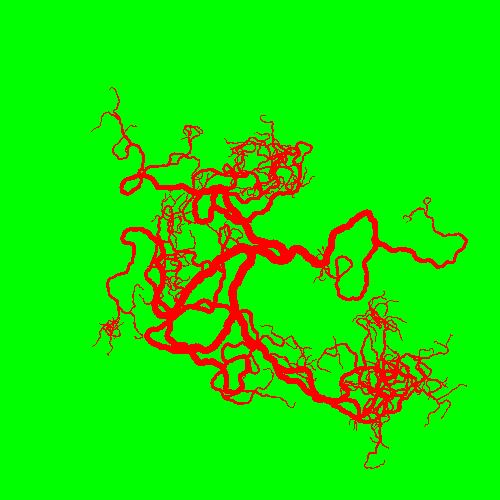
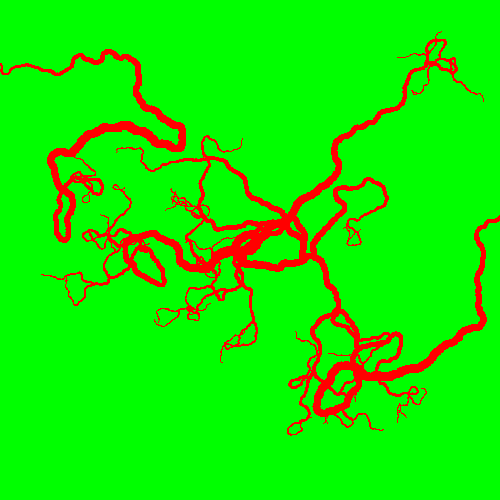
scaling variable implementation fixed

diff --git a/src/world/World.java b/src/world/World.java
@@ -42,15 +42,16 @@ public class World {
 				world[i][j] = STATE_WALL;
 			}
 		}
+		world = startDendrite(world, 0.25*w, 0.25*h);
 		world = startDendrite(world, 0.5*w, 0.5*h);
+		world = startDendrite(world, 0.75*w, 0.75*h);
 		return world;
 	}
 
 	private static int[][] startDendrite(int[][] world, double x, double y) {
 		double r0 = 5, t0 = (Main.r.nextDouble()*2.0-1.0)*6.28;
-		world = dendrite(world, x, y, r0, t0, 5);
-		world = dendrite(world, x, y, r0, t0+2.09, 5);
-		world = dendrite(world, x, y, r0, t0+4.18, 5);
+		world = dendrite(world, x, y, r0, t0, 3);
+		world = dendrite(world, x, y, r0, t0+3.14, 5);
 //		world = dendrite(world, 250, 500, 5, -Math.PI*0.5, 5);
 		return world;
 	}
@@ -64,12 +65,12 @@ public class World {
 			x += Math.cos(t)*r*0.5;
 			y += Math.sin(t)*r*0.5;
 			if(recurs >= 0)  {
-				if(Main.r.nextDouble() < 0.005) {
+				if(Main.r.nextDouble() < 0.0025) {
 					double diff = Main.r.nextDouble()*0.5;
 					world = dendrite(world, x, y, r, t+diff, recurs-1);
 					world = dendrite(world, x, y, r, t-diff, recurs-1);
 					break;
-				}else if(Main.r.nextDouble() < 0.01) {
+				}else if(Main.r.nextDouble() < 0.005) {
 					world = dendrite(world, x, y, r, t+Main.r.nextDouble()-Math.PI*0.5, recurs-1);
 				}
 			}

diff --git a/src/main/game/Player.java b/src/main/game/Player.java
@@ -53,8 +53,8 @@ public class Player implements Serializable {
 			}
 		}
 		IndividualData data = Main.data.indieData.get(-PID-1);
-		data.sX = (data.sX+8*nsX/x.size())/2;
-		data.sY = (data.sY+8*nsY/x.size())/2;
+		data.sX = (data.sX+data.clientData.pixW*nsX/x.size())/2;
+		data.sY = (data.sY+data.clientData.pixW*nsY/x.size())/2;
 		if(fx.size() == 0) return;
 		int id = getFurthestID(d.dx, d.dy), rid = Main.r.nextInt(fx.size());
 		moveTo(id, fx.get(rid), fy.get(rid));

diff --git a/src/net/ServerData.java b/src/net/ServerData.java
@@ -65,7 +65,7 @@ public class ServerData implements Serializable {
 		d.state = new State[(int)dsW][(int)dsH];
 		for(int i = 0; i < dsW; i++) {
 			for(int j = 0; j < dsH; j++) {
-				d.state[i][j] = getState((id.sX-id.clientData.w/2)/pw+i, (id.sY-id.clientData.h/2)/pw+j);
+				d.state[i][j] = getState((id.sX-id.clientData.w/2)/pw+i /* ><> */, (id.sY-id.clientData.h/2)/pw+j);
 			}
 		}
 		return d;

diff --git a/src/net/IndividualData.java b/src/net/IndividualData.java
@@ -15,7 +15,7 @@ public class IndividualData implements Serializable {
 	public InputData clientData;
 	public Player player;
 	
-	public int sX, sY, w, h, pixW;
+	public int sX, sY;
 	
 	public IndividualData(int index) {
 		//identifying a blob by -1-index because static (non-player states) are >= 0
